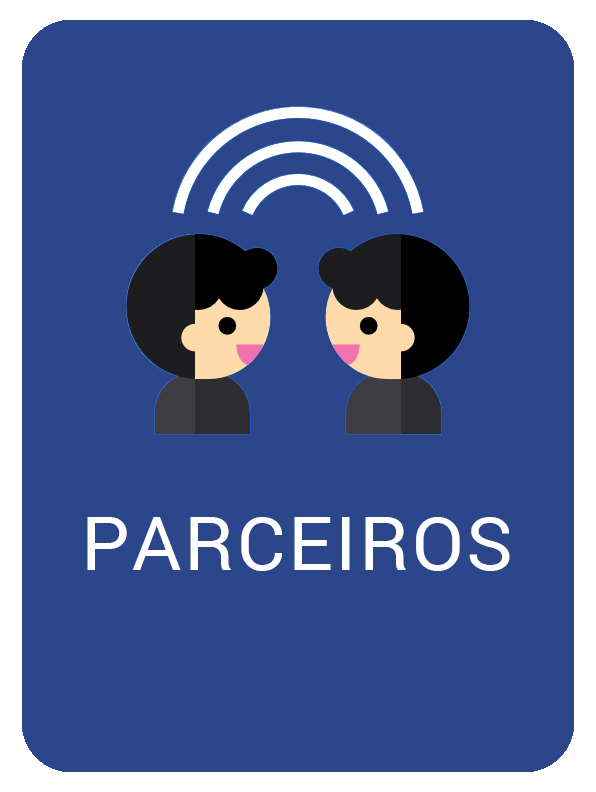
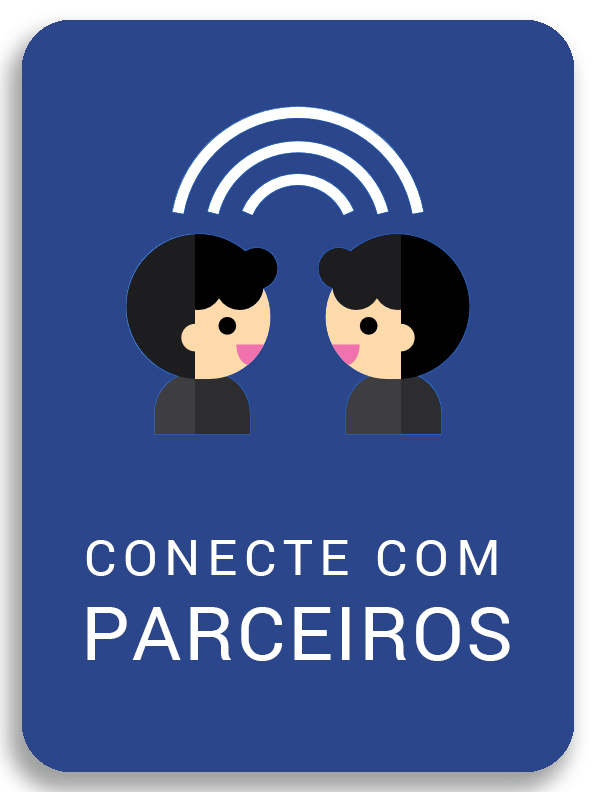
partners screens

diff --git a/src/pages/Partners-list.tsx b/src/pages/Partners-list.tsx
@@ -1,0 +1,119 @@
+import {
+  IonList,
+  IonListHeader,
+  IonItem,
+  IonAvatar,
+  IonLabel,
+  IonButtons,
+  IonContent,
+  IonHeader,
+  IonMenuButton,
+  IonPage,
+  IonTitle,
+  IonToolbar,
+  IonImg,  
+} from "@ionic/react";
+import "./Page.css";
+
+const Partners: React.FC = () => {
+  return (
+    <IonPage>
+      <IonHeader>
+        <IonToolbar>
+          <IonButtons slot="start">
+            <IonMenuButton />
+          </IonButtons>
+          <IonTitle>Procurar Parceiros</IonTitle>
+        </IonToolbar>
+      </IonHeader>
+
+      <IonContent fullscreen>
+        <IonHeader collapse="condense"></IonHeader>
+        <div><iframe title="myFrame" src="https://www.google.com/maps/embed?pb=!1m16!1m12!1m3!1d3958903.7155643078!2d-57.616242611844!3d-14.304639300402828!2m3!1f0!2f0!3f0!3m2!1i1024!2i768!4f13.1!2m1!1sagricola%20em%20mato%20grosso!5e0!3m2!1ses!2sbr!4v1638634531476!5m2!1ses!2sbr" width="400" height="250" loading="lazy"></iframe></div>
+        <IonList>
+          <IonListHeader>Produtores perto de vocé</IonListHeader>
+        <IonItem>
+          <IonAvatar  className="user-avatar"><IonImg src="/assets/img/prod-icon.jpg" alt="avatar" /></IonAvatar>
+          <IonLabel>
+            <h2>John Doe</h2>
+            <h3>Produtor</h3>
+            <p>	Cuiabá, Mato Grosso</p>
+          </IonLabel>
+        </IonItem>
+        <IonItem>
+          <IonAvatar  className="user-avatar"><IonImg src="/assets/img/for-icon.jpg" alt="avatar" /></IonAvatar>
+          <IonLabel>
+            <h2>John Doe</h2>
+            <h3>Produtor</h3>
+            <p>	Cuiabá, Mato Grosso</p>
+          </IonLabel>
+        </IonItem>
+        <IonItem>
+          <IonAvatar  className="user-avatar"><IonImg src="/assets/img/comp-icon.jpg" alt="avatar" /></IonAvatar>
+          <IonLabel>
+            <h2>Jane Doe</h2>
+            <h3>Produtora</h3>
+            <p>	Cuiabá, Mato Grosso</p>
+          </IonLabel>
+        </IonItem>
+      </IonList>
+      <IonList>
+          <IonListHeader>Prestadores de serviço perto de vocé</IonListHeader>
+        <IonItem>
+          <IonAvatar  className="user-avatar"><IonImg src="/assets/img/prod-icon.jpg" alt="avatar" /></IonAvatar>
+          <IonLabel>
+            <h2>John Doe</h2>
+            <h3>Prestador de Serviços</h3>
+            <p>	Cuiabá, Mato Grosso</p>
+          </IonLabel>
+        </IonItem>
+        <IonItem>
+          <IonAvatar  className="user-avatar"><IonImg src="/assets/img/for-icon.jpg" alt="avatar" /></IonAvatar>
+          <IonLabel>
+            <h2>John Doe</h2>
+            <h3>Prestador de Serviços</h3>
+            <p>	Cuiabá, Mato Grosso</p>
+          </IonLabel>
+        </IonItem>
+        <IonItem>
+          <IonAvatar  className="user-avatar"><IonImg src="/assets/img/comp-icon.jpg" alt="avatar" /></IonAvatar>
+          <IonLabel>
+            <h2>Jane Doe</h2>
+            <h3>Prestadora de Serviços</h3>
+            <p>	Cuiabá, Mato Grosso</p>
+          </IonLabel>
+        </IonItem>
+      </IonList>  
+      <IonList>
+          <IonListHeader>Compradores perto de vocé</IonListHeader>
+        <IonItem>
+          <IonAvatar  className="user-avatar"><IonImg src="/assets/img/prod-icon.jpg" alt="avatar" /></IonAvatar>
+          <IonLabel>
+            <h2>John Doe</h2>
+            <h3>Comprador</h3>
+            <p>	Cuiabá, Mato Grosso</p>
+          </IonLabel>
+        </IonItem>
+        <IonItem>
+          <IonAvatar  className="user-avatar"><IonImg src="/assets/img/for-icon.jpg" alt="avatar" /></IonAvatar>
+          <IonLabel>
+            <h2>John Doe</h2>
+            <h3>Comprador</h3>
+            <p>	Cuiabá, Mato Grosso</p>
+          </IonLabel>
+        </IonItem>
+        <IonItem>
+          <IonAvatar  className="user-avatar"><IonImg src="/assets/img/comp-icon.jpg" alt="avatar" /></IonAvatar>
+          <IonLabel>
+            <h2>Jane Doe</h2>
+            <h3>Compradora</h3>
+            <p>	Cuiabá, Mato Grosso</p>
+          </IonLabel>
+        </IonItem>
+      </IonList>      
+      </IonContent>      
+    </IonPage>
+  );
+};
+
+export default Partners;

diff --git a/src/pages/Partners.tsx b/src/pages/Partners.tsx
@@ -1,9 +1,22 @@
-import { IonButtons, IonContent, IonHeader, IonMenuButton, IonPage, IonText, IonTitle, IonToolbar, IonImg } from '@ionic/react';
-import './Page.css';
+import {
+  IonList,
+  IonItem,
+  IonAvatar,
+  IonLabel,
+  IonButtons,
+  IonContent,
+  IonHeader,
+  IonMenuButton,
+  IonPage,
+  IonTitle,
+  IonToolbar,
+  IonImg,
+  IonButton
+} from "@ionic/react";
+import "./Page.css";
 
 const Partners: React.FC = () => {
-
-    return (
+  return (
     <IonPage>
       <IonHeader>
         <IonToolbar>
@@ -15,14 +28,40 @@ const Partners: React.FC = () => {
       </IonHeader>
 
       <IonContent fullscreen>
-        <IonHeader collapse="condense">         
-        </IonHeader>
-        <IonText>
-          <p className="sub-title">Seja bem-vindo!</p>
-          <p className="title"><span className="green-title">AgroConect</span> loren ipsum sit amur!</p>          
-        </IonText>
-        <IonImg src="/assets/img/home-pic.jpg" alt="home" className="home-pic" />              
-      </IonContent>
+        <IonHeader collapse="condense"></IonHeader>
+        <IonImg
+          src="/assets/img/banner-par.jpg"
+          alt="home"
+          className="home-pic"
+        />
+        <IonList>
+        <IonItem>
+          <IonAvatar  className="user-avatar"><IonImg src="/assets/img/prod-icon.jpg" alt="avatar" /></IonAvatar>
+          <IonLabel>
+            <h2>John Doe</h2>
+            <h3>Produtor</h3>
+            <p>	Cuiabá, Mato Grosso</p>
+          </IonLabel>
+        </IonItem>
+        <IonItem>
+          <IonAvatar  className="user-avatar"><IonImg src="/assets/img/for-icon.jpg" alt="avatar" /></IonAvatar>
+          <IonLabel>
+            <h2>John Doe</h2>
+            <h3>Prestador de Serviços</h3>
+            <p>	Cuiabá, Mato Grosso</p>
+          </IonLabel>
+        </IonItem>
+        <IonItem>
+          <IonAvatar  className="user-avatar"><IonImg src="/assets/img/comp-icon.jpg" alt="avatar" /></IonAvatar>
+          <IonLabel>
+            <h2>Jane Doe</h2>
+            <h3>Compradora</h3>
+            <p>	Cuiabá, Mato Grosso</p>
+          </IonLabel>
+        </IonItem>
+      </IonList>
+      <IonButton routerLink="/partners-list" expand="block" fill="solid" className="par-button">Adicionar Parceiros</IonButton>
+      </IonContent>      
     </IonPage>
   );
 };

diff --git a/src/pages/Home.tsx b/src/pages/Home.tsx
@@ -1,4 +1,4 @@
-import { IonRouterLink, IonButtons, IonContent, IonHeader, IonMenuButton, IonPage, IonText, IonTitle, IonToolbar, IonImg, IonGrid, IonRow, IonCol } from '@ionic/react';
+import { IonButtons, IonCard, IonContent, IonHeader, IonMenuButton, IonPage, IonText, IonTitle, IonToolbar, IonImg, IonGrid, IonRow, IonCol } from '@ionic/react';
 import './Page.css';
 
 const Home: React.FC = () => {
@@ -19,13 +19,14 @@ const Home: React.FC = () => {
         </IonHeader>
         <IonText>
           <p className="sub-title">Seja bem-vindo!</p>
-          <p className="title"><span className="green-title">AgroConect</span> loren ipsum sit amur!</p>          
+          <p className="title"><span className="green-title">AgroConnect</span> conectividade na palma de sua mão!</p>          
         </IonText>
         <IonImg src="/assets/img/home-pic.jpg" alt="home" className="home-pic" />      
         <IonGrid>
           <IonRow>
-            <IonCol><IonRouterLink href="/products"><IonImg src="/assets/img/button-veg.jpg" alt="button" className="home-button" /></IonRouterLink> </IonCol>
-            <IonCol><IonImg src="/assets/img/button-par.jpg" alt="button" className="home-button" />  </IonCol>           
+            <IonCol><IonCard routerLink="/products" className="home-card"><IonImg src="/assets/img/button-veg.jpg" alt="button" className="home-button" /></IonCard> </IonCol>
+            <IonCol><IonCard routerLink="/partners" className="home-card"><IonImg src="/assets/img/button-par.jpg" alt="button" className="home-button" /></IonCard> </IonCol>
+       
         </IonRow>
         </IonGrid>       
       </IonContent>

diff --git a/src/pages/Products.tsx b/src/pages/Products.tsx
@@ -1,9 +1,17 @@
-import { IonButtons, IonContent, IonHeader, IonMenuButton, IonPage, IonText, IonTitle, IonToolbar, IonImg } from '@ionic/react';
-import './Page.css';
+import {
+  IonButtons,
+  IonContent,
+  IonHeader,
+  IonMenuButton,
+  IonPage,
+  IonTitle,
+  IonToolbar,
+  IonImg,
+} from "@ionic/react";
+import "./Page.css";
 
 const Products: React.FC = () => {
-
-    return (
+  return (
     <IonPage>
       <IonHeader>
         <IonToolbar>
@@ -15,13 +23,12 @@ const Products: React.FC = () => {
       </IonHeader>
 
       <IonContent fullscreen>
-        <IonHeader collapse="condense">         
-        </IonHeader>
-        <IonText>
-          <p className="sub-title">Seja bem-vindo!</p>
-          <p className="title"><span className="green-title">AgroConect</span> loren ipsum sit amur!</p>          
-        </IonText>
-        <IonImg src="/assets/img/home-pic.jpg" alt="home" className="home-pic" />              
+        <IonHeader collapse="condense"></IonHeader>
+        <IonImg
+          src="/assets/img/banner-prod.jpg"
+          alt="home"
+          className="home-pic"
+        />
       </IonContent>
     </IonPage>
   );

diff --git a/src/App.tsx b/src/App.tsx
@@ -6,6 +6,7 @@ import Home from './pages/Home';
 import Products from './pages/Products';
 import Profile from './pages/Profile';
 import Partners from './pages/Partners';
+import PartnersList from './pages/Partners-list';
 
 /* Core CSS required for Ionic components to work properly */
 import '@ionic/react/css/core.css';
@@ -40,7 +41,9 @@ const App: React.FC = () => {
             <Route path="/profile" exact={true} component={Profile}>              
             </Route> 
             <Route path="/partners" exact={true} component={Partners}>              
-            </Route>              
+            </Route> 
+            <Route path="/partners-list" exact={true} component={PartnersList}>              
+            </Route>                           
           </IonRouterOutlet>
         </IonSplitPane>
       </IonReactRouter>

diff --git a/src/pages/Page.css b/src/pages/Page.css
@@ -19,3 +19,19 @@
   margin-top: -20px;  
 }
 
+.home-card {
+  box-shadow: none;
+}
+
+.home-button {
+  width: 100%;
+}
+
+.user-avatar {
+  margin-right: 15px;
+}
+
+.par-button{
+  --background: #7d7e3d;
+  margin-top: 20px;
+}
